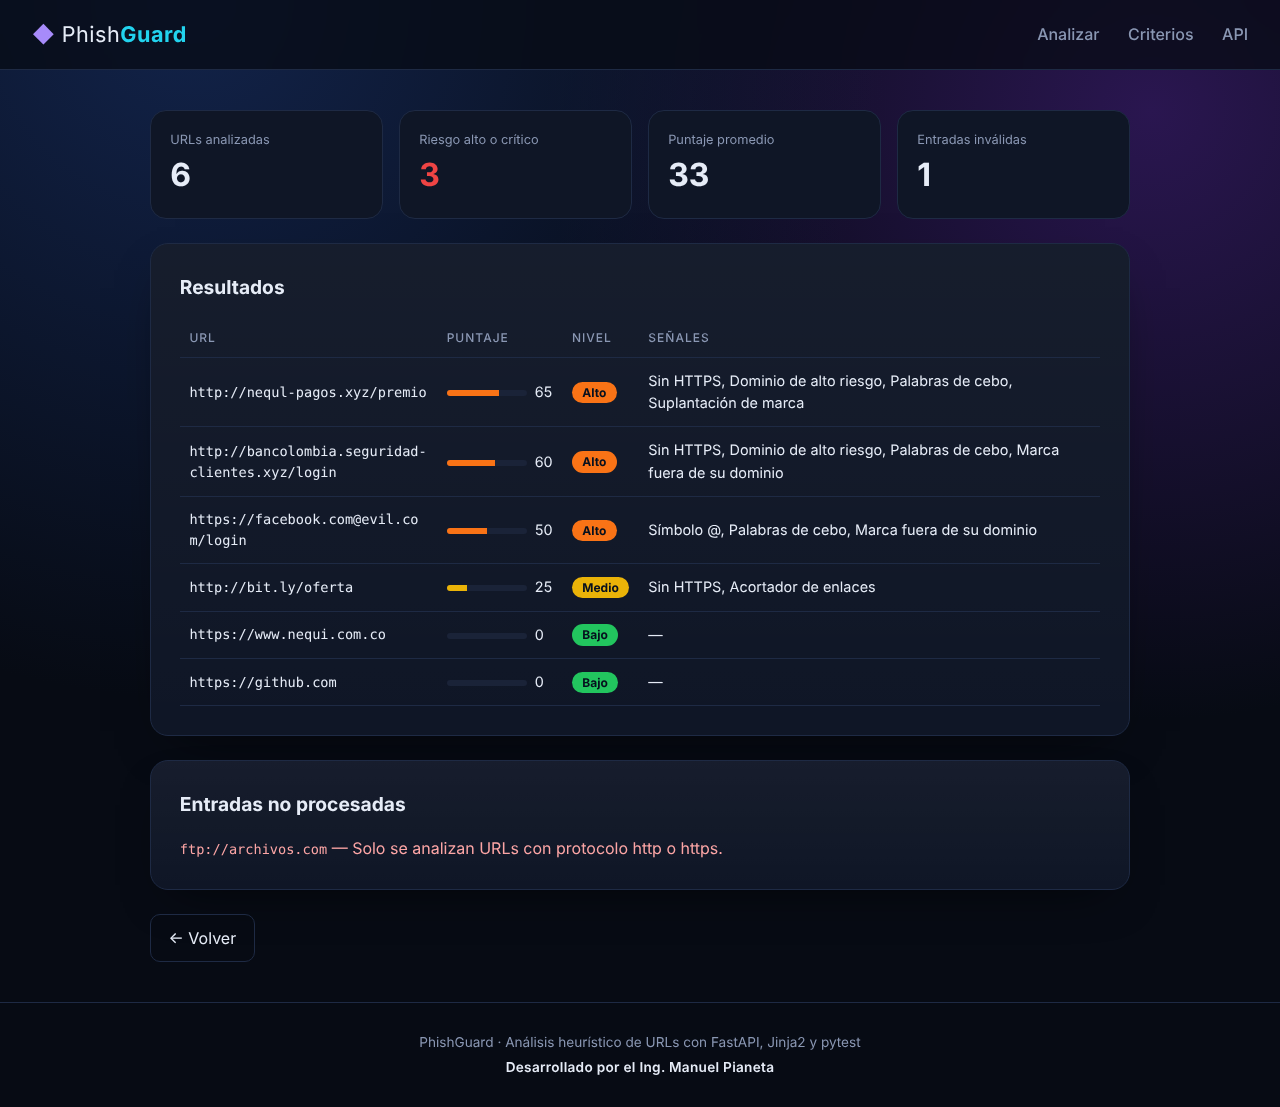
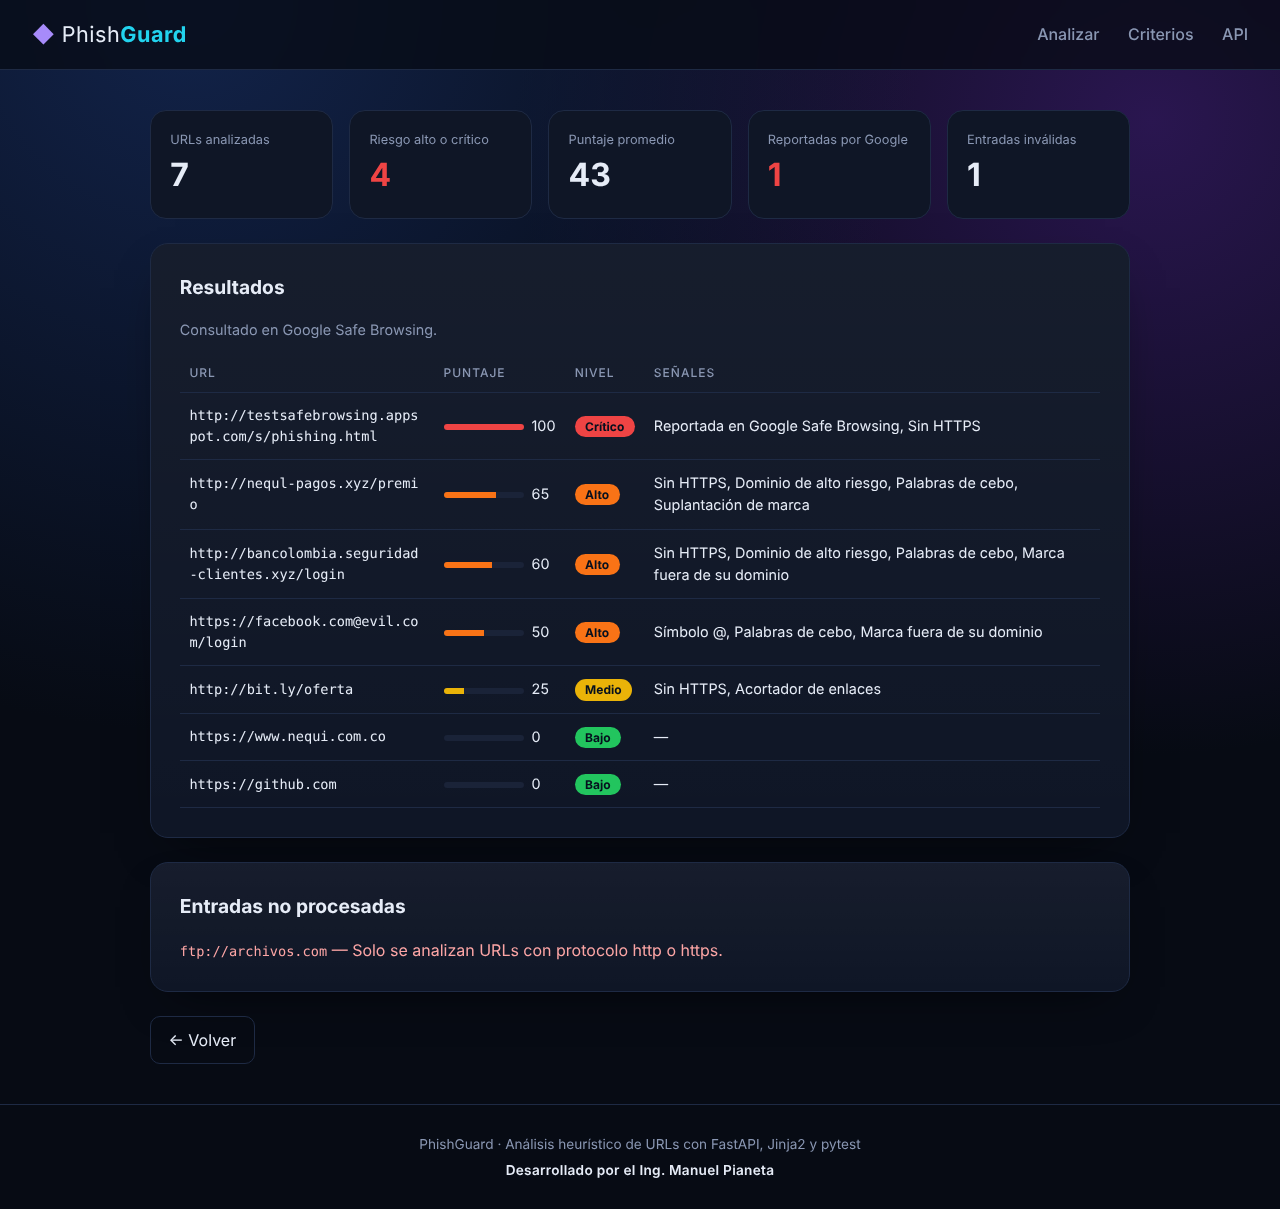
Evidencias actualizadas con Google Safe Browsing y 39 pruebas

diff --git a/README.md b/README.md
@@ -292,6 +292,8 @@ Las pruebas **nunca llaman a Google de verdad**: `conftest.py` elimina la clave 
 
 ## 7. Evidencias de funcionamiento
 
+> Las capturas se tomaron en un entorno local sin acceso a internet, donde las respuestas de Google Safe Browsing se simularon con las mismas URLs de prueba oficiales de Google (`malware.testing.google.test` y `testsafebrowsing.appspot.com`). La consulta real a Google se verificó en línea: la URL de prueba de malware devuelve **100 – Crítico, enlace REPORTADO**.
+
 ### Interfaz principal
 ![Interfaz principal](evidencias/01_interfaz_principal.png)
 
